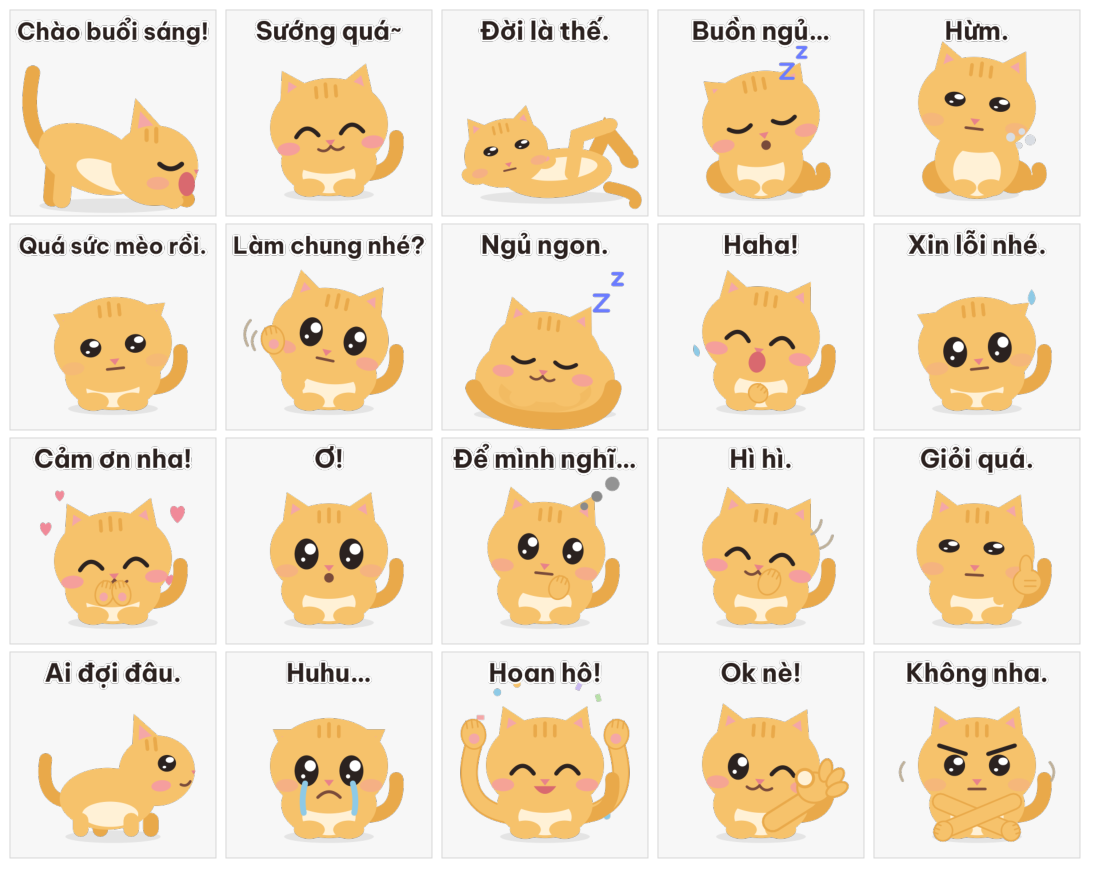
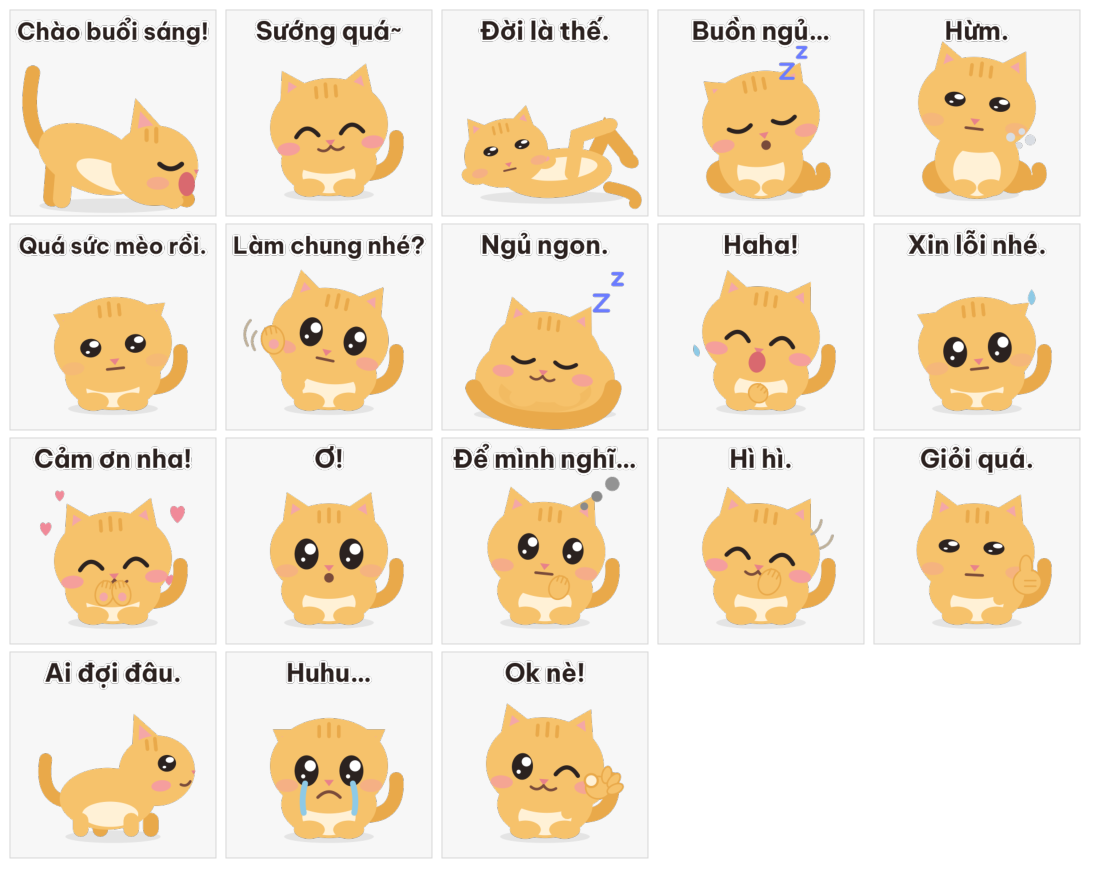
Stickers: remove Hoan hô and Không nha (18 in the set), Ok nè back to the first drawing

Changed region(s): [[0.8036, 0.7364, 0.9582, 0.9818], [0.4018, 0.7364, 0.5873, 0.9511], [0.6182, 0.7364, 0.7727, 0.9818]]

diff --git a/docs/plans/assets/stickers/build_stickers.py b/docs/plans/assets/stickers/build_stickers.py
@@ -323,32 +323,13 @@ def joy_tears():
     return o
 
 
-def arm(d, w=10):
-    """A fur arm with a thin darker edge, so it shows against the cream belly or the fur of the body."""
-    return stroke_path(d, DARK, w + 2.4) + stroke_path(d, FUR, w)
-
-
-def arms_up():
-    return arm("M36 100 Q-4 94 9 50") + arm("M84 100 Q124 94 111 50")
-
-
 def ok_sign(x, y):
     """A paw making the 'ok' ring, three fingers up (sticker art)."""
-    o = f'<g transform="translate({f(x)},{f(y)}) scale(1.35) translate({f(-x)},{f(-y)})">' + arm(f"M76 98 L{f(x - 3)} {f(y + 6)}", 9)
+    o = stroke_path(f"M76 98 L{f(x - 3)} {f(y + 6)}", FUR, 9)
     o += f'<ellipse cx="{f(x)}" cy="{f(y)}" rx="9" ry="8" fill="{FUR}" stroke="{DARK}" stroke-width="1.1"/>'
     for dx, dy, r in ((6, -9, 12), (11, -5, 40), (12, 1, 65)):
         o += f'<ellipse cx="{f(x + dx)}" cy="{f(y + dy)}" rx="3.3" ry="6" fill="{FUR}" stroke="{DARK}" stroke-width="1.1" transform="rotate({r} {f(x + dx)} {f(y + dy)})"/>'
-    o += f'<circle cx="{f(x - 5)}" cy="{f(y - 5)}" r="4.6" fill="{BELLY}" stroke="{DARK}" stroke-width="1.6"/>' + "</g>"
-    return o
-
-
-def firm_brows():
-    return stroke_path("M33 50 L52 56", INK, 3) + stroke_path("M87 50 L68 56", INK, 3)
-
-
-def crossed_arms():
-    o = arm("M34 90 L82 110") + arm("M86 90 L38 110")
-    o += paw(84, 111, 7, 6.5, 70) + paw(36, 111, 7, 6.5, -70)
+    o += f'<circle cx="{f(x - 5)}" cy="{f(y - 5)}" r="4.6" fill="{BELLY}" stroke="{DARK}" stroke-width="1.6"/>'
     return o
 
 
@@ -440,9 +421,7 @@ STICKERS = [
     ("16", "Giỏi quá.", lambda: cat(STAND_F, dict(LOOK["smirk"], lid=0.5, gx=-4, roll=3, mouth="flat", cheek=0.4)) + thumbs_up(96, 86)),
     ("17", "Ai đợi đâu.", lambda: cat(STAND_S, dict(LOOK["rest"], lid=0.7, roll=-6, mouth="smile", cheek=1.0, gx=-3))),
     ("19", "Huhu…", lambda: cat(STAND_F, dict(LOOK["sad"], roll=0, dy=0, lid=1, wide=1, cheek=0.5, droop=1, mouth="none")) + tears()),
-    ("20", "Hoan hô!", lambda: confetti() + arms_up() + cat(STAND_F, dict(LOOK["happy"], dy=0)) + paw(9, 42, 8.5, 10.5, -8, True) + paw(111, 42, 8.5, 10.5, 8, True)),
     ("21", "Ok nè!", lambda: cat(STAND_F, dict(LOOK["rest"], wink=1, mouth="smile", cheek=0.8, roll=4)) + ok_sign(98, 80)),
-    ("22", "Không nha.", lambda: cat(STAND_F, dict(LOOK["rest"], lid=0.8, mouth="flat", cheek=0.3, roll=0)) + crossed_arms() + firm_brows() + arcs("M8 62 q-5 6 -1 13", "M112 62 q5 6 1 13")),
 ]
 
 S = 2.45

diff --git a/docs/plans/sticker-set-v0.md b/docs/plans/sticker-set-v0.md
@@ -31,6 +31,8 @@ All 15 stickers, the icon, the preview and the 9 banners exist as PNG in [`asset
 
 **Third pass (2026-11-11):** the six stickers that looked alike at 120 px now differ by silhouette or gesture: 05 sits and puffs, 08 beckons with a raised paw, 14 rests a paw on the chin under a thought bubble, 15 giggles behind a paw, 16 claps slowly, 17 turns side-on (see [`six_distinct.png`](assets/stickers/direction-v1/six_distinct.png)); 03 lost its thought dots. The paws and arcs are sticker art, not rig poses.
 
+**Ninth pass (2026-11-11, the author): "Hoan hô!" and "Không nha." are removed** (the author found them too fierce to look at, and there is no better idea yet), and "Ok nè!" goes back to the smaller first drawing. The set is **18 stickers** (Zalo needs 12 to 20). File numbers are as in the seventh pass up to 16 ("Ai đợi đâu."), then **17 = "Huhu…" and 18 = "Ok nè!"**. The gaps left: a celebration and a firm "no" (see the audit).
+
 **Eighth pass (2026-11-11, the author's notes on the contact sheet):** the hearts of "Cảm ơn nha!" are moved below the text line; "Hoan hô!" has long curved arms raised outside the head with the paws high (before, the paws sat at the ears and read as extra ears); "Không nha." has stern brows (sticker art) over the crossed arms.
 
 **Seventh pass (2026-11-11), after the audit:** the rain sticker (list id 10) is replaced by **"Haha!"** (list id 18) and four are added: 19 "Huhu…", 20 "Hoan hô!", 21 "Ok nè!", 22 "Không nha."; "Xin lỗi nhé." has wet eyes and a sweat drop and "Cảm ơn nha!" presses the paws together. The set is **20 stickers**, the maximum. The file numbers are by position: 01 to 06 = list 01 to 06; 07 = 08 "Làm chung nhé?"; 08 = 09 "Ngủ ngon."; **09 = 18 "Haha!"**; 10 = 11 "Xin lỗi nhé."; 11 = 12 "Cảm ơn nha!"; 12 = 13 "Ơ!"; 13 = 14 "Để mình nghĩ…"; 14 = 15 "Hì hì."; 15 = 16 "Giỏi quá."; 16 = 17 "Ai đợi đâu."; **17 = 19 "Huhu…"; 18 = 20 "Hoan hô!"; 19 = 21 "Ok nè!"; 20 = 22 "Không nha."** The sixth-pass numbering below is the 16-sticker one.

diff --git a/docs/plans/sticker-expression-audit.md b/docs/plans/sticker-expression-audit.md
@@ -54,5 +54,7 @@ Done after the author removed the clapping "Giỏi quá!" (it duplicated 16, "Gi
 ## 4. Constraints to keep
 At most 4 words of text, nothing that Zalo bans, flat style, no app name (ADR-0049); no guilt (charter). Every gesture above (circle, crossed paws, tears) is sticker art, not an app pose; the face comes from the rig's dials (lid, mouth, cheek, ears).
 
-## 5. Result (2026-11-11): the set of 20
+**Update (2026-11-11, later): "Hoan hô!" and "Không nha." were removed by the author, so the set is 18 and a celebration and a firm "no" are gaps again.** Ideas to try if the author wants them back, each softer: a celebration with the paws up and a bounce (small hops drawn as two motion lines) with the same smiling face; a "no" with one paw raised flat like a stop sign and a gentle head shake instead of crossed arms and brows.
+
+## 5. Result (2026-11-11): the set of 20 (as first drawn)
 Files `01.png` to `20.png`. Compared with the 16 above: the rain sticker is replaced by **09 "Haha!"** (closed arcs, a wide open mouth, tears of joy, a paw on the belly); **10 "Xin lỗi nhé."** now has big wet eyes, ears down and a sweat drop; **11 "Cảm ơn nha!"** presses the paws together under the chin, with hearts; and four are added at the end: **17 "Huhu…"** (wide wet eyes, two streams of tears, a frown, ears down), **18 "Hoan hô!"** (both paws up in a V, confetti), **19 "Ok nè!"** (a wink and a paw making the ok ring), **20 "Không nha."** (arms crossed in an X, firm eyes). Files 12 to 16 are unchanged from the list above (Ơ!, Để mình nghĩ…, Hì hì., Giỏi quá., Ai đợi đâu.). The gestures are sticker art; the faces use the rig's dials. Sarcasm share is still 5 of 20 (25%): 03, 05, 14, 15, 16. The full mapping from list ids to files is in `sticker-set-v0.md`.
